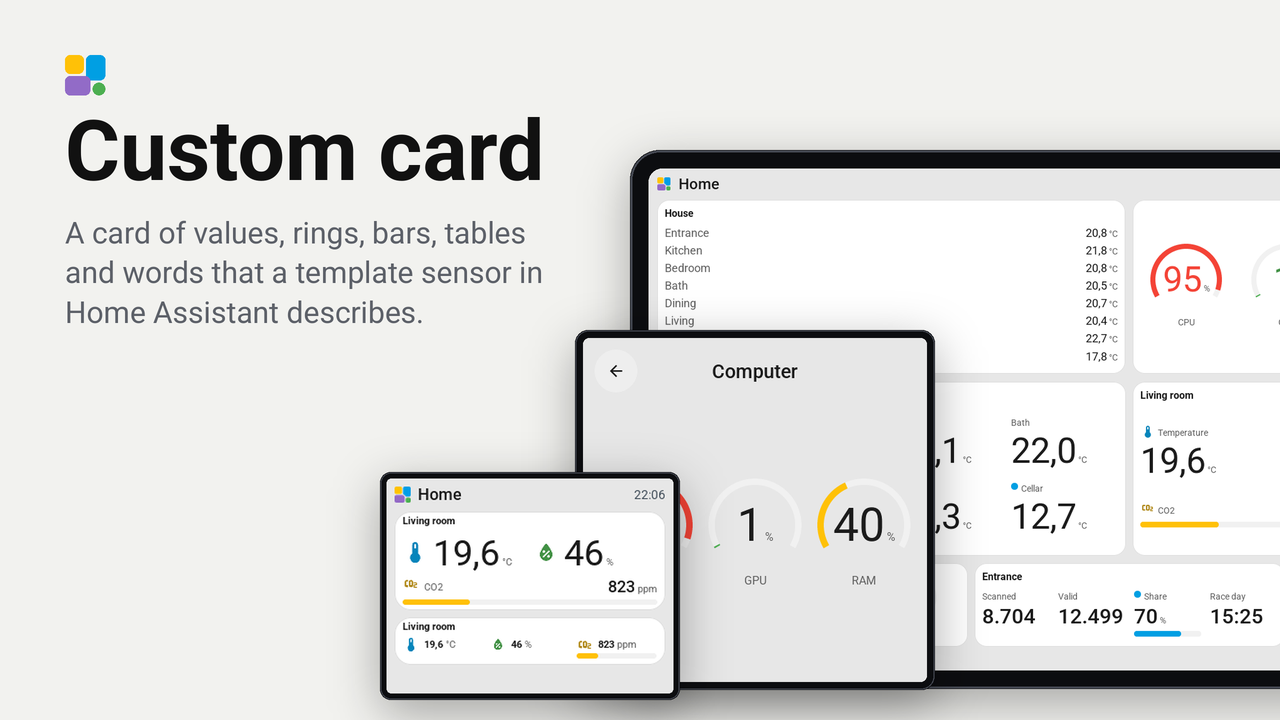
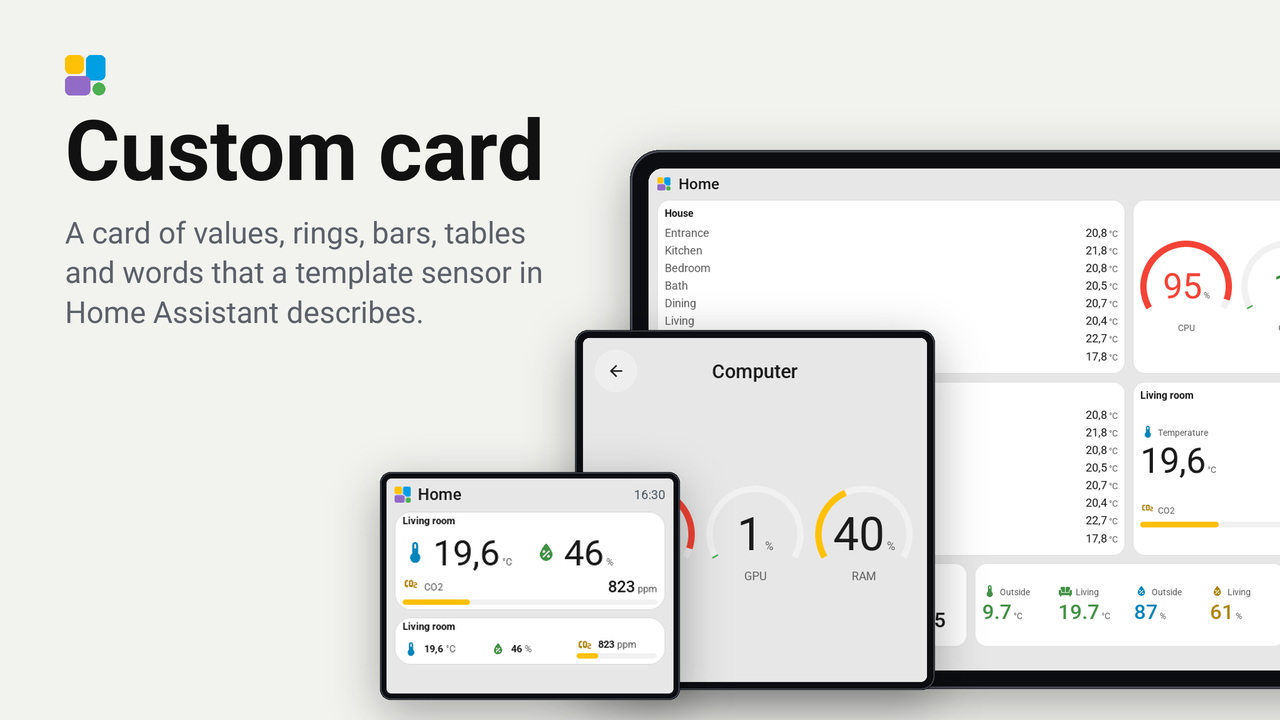
0.6.1: dated, and the Plugins page shows the rings of 0.6.1
A follow-up to 0.6.0 on Tessera 0.4.89: Schumey's rings that fill the tile (pull request #3) and one ring wherever it
stands. store.png made again as for 0.6.0 (rings first, the CO2 card in front from a run with the living room first),
now with the rings' labels in their opening. Glass-tested in the Arena on the 7-inch Guition; bench and check ok.

diff --git a/CHANGELOG.de.md b/CHANGELOG.de.md
@@ -1,6 +1,6 @@
 # Änderungen
 
-## 0.6.1
+## 0.6.1 - 2026-10-18
 - Ringe so groß wie die Kachel: Auf einer Karte mit Ringen wachsen sie in den Platz, den die Kachel hat (so hoch wie
   eine breite Kachel mit einer Reihe), alle gleich groß, ihre Werte in der größten Schrift, die die Ringe fassen, und
   das Label steht in der offenen Unterseite seines Rings statt darunter.
@@ -10,6 +10,7 @@
   seinem Label, so hat jeder Wert die ganze Breite seiner Spalte (vier Werte in einer Reihe unter dem Namen der Kachel).
 - Eine dritte Option der Kachel im Inspector: **Werte in einer Reihe**, automatisch (wie bisher), alle in einer Reihe
   oder zwei pro Reihe (vier Werte auf einer breiten Kachel als eine Reihe mit vier oder zwei Reihen mit zwei).
+- Diese vier von Schumey (Pull Request #3), danke.
 - Ein Ring, wo er auch steht: Ein Ring zwischen Werten (zwei Zählungen und ihr Anteil) ist derselbe Ring wie auf einer
   Karte mit Ringen, sein Wert groß in der Mitte, sein Label in der Öffnung, und er wächst in den Platz der Kachel,
   höchstens anderthalbmal so hoch wie die Zeile der Werte, damit er auf großen Kacheln zu ihnen passt; die Werte daneben

diff --git a/CHANGELOG.md b/CHANGELOG.md
@@ -1,6 +1,6 @@
 # Changelog
 
-## 0.6.1
+## 0.6.1 - 2026-10-18
 - Rings as large as the tile: on a card of rings they grow into the room the tile has (as tall as a wide tile one row
   high), all of one size, their values in the largest face the rings hold, and the label stands in the open bottom of
   its ring instead of under it.
@@ -9,6 +9,7 @@
   label, so each value has its column's whole width (four values in one row under the tile's name).
 - A third option of the tile in the inspector: **Values in a row**, automatic (as before), all in one row, or two to a
   row (four values on a wide tile as one row of four or two rows of two).
+- These four by Schumey (pull request #3), thank you.
 - One ring wherever it stands: a ring among values (two counts and their share) is the same ring as on a card of rings,
   its value large in its middle and its label in its opening, and it grows into the room the tile has, at most half
   again as tall as the values' line so it stays in step with them on a large tile, with the values in the middle of the
